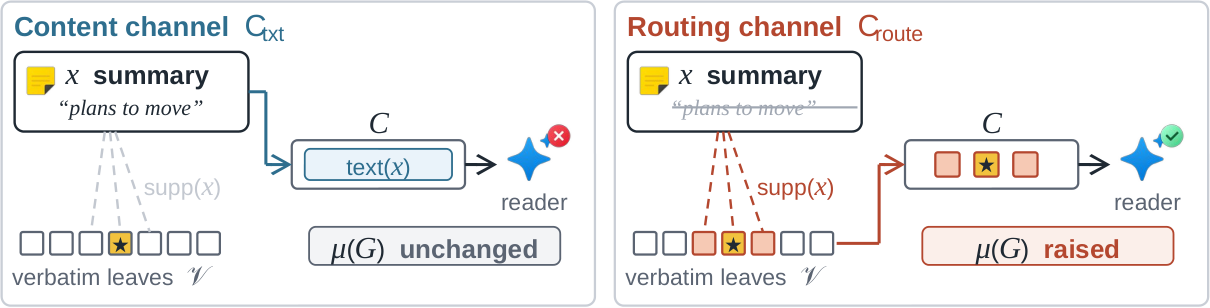
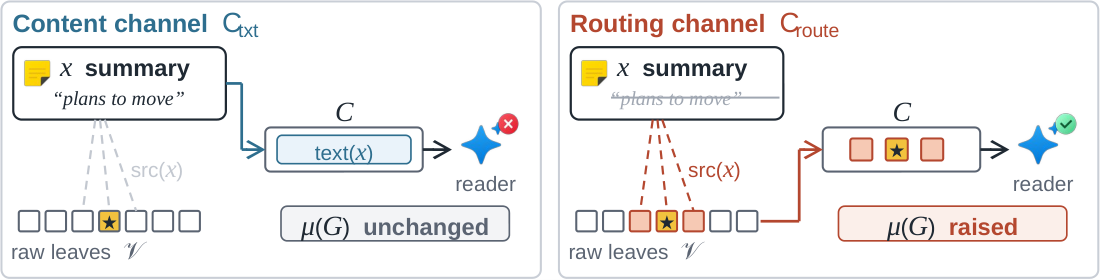
docs-workflow: templates and examples updated to the final Fig 2 (query lane, two query depths, eviction, literature-grounded labels)

diff --git a/skills/docs-workflow/resources/templates/fig2_build.py b/skills/docs-workflow/resources/templates/fig2_build.py
@@ -127,8 +127,8 @@ def chip(x, y, w, h, runs, fill=WHITE, line=INK, lw=0.9, align=PP_ALIGN.CENTER, 
 
 # ------------------------------------------------------------------ code highlighting
 KW = {'class', 'def', 'return', 'if', 'and', 'else'}
-FN = {'admit', 'index', 'score', 'propose', 'route', 'supp', 'len'}
-TY = {'Tier', 'Interface', 'SummaryTier_v3', 'SummaryTier_v4', 'bool', 'Index', 'Proposal', 'Action'}
+FN = {'admit', 'index', 'score', 'propose', 'route', 'src', 'len'}
+TY = {'Layer', 'Interface', 'SummaryLayer_g0', 'SummaryLayer_child', 'bool', 'Index', 'Proposal', 'Action'}
 CT = {'Stop', 'Narrow', 'Descend'}
 def code_runs(line, size=FC):
     runs = []; body, cm = (line.split('#', 1) + [None])[:2] if '#' in line else (line, None)
@@ -177,15 +177,15 @@ def elabel(x, y, w, txt, col, align=PP_ALIGN.CENTER): return text(x, y, w, 0.45,
 # ------------------------------------------------------------------ Self-modify geometry first (it sets the height)
 ex, ew = 11.2, 8.45
 yt0 = P0 + 0.8                                          # tier.py top
-TIER = ['Action = Stop | Narrow | Descend', 'class Tier(Interface):', '    # in-layer',
-        '    def admit(p) -> bool', '    def index(items) -> Index', '    def score(q, focus) -> [(x, c)]',
-        '    # cross-layer', '    def propose(items, seg) -> [Proposal]', '    def route(q, x, c) -> Action',
-        '    # contract: V append-only; supp exact;', '    #   within budget B; deterministic']
+TIER = ['Action = Stop | Narrow | Descend', 'class Layer(Interface):', '    # in-layer',
+        '    def admit(p) -> bool', '    def index(items) -> Index', '    def score(q, scope) -> [(x, c)]',
+        '    # cross-layer', '    def propose(items, chunk) -> [Proposal]', '    def route(q, x, c) -> Action',
+        '    # invariants: V append-only; src exact;', '    #   within budget B; deterministic']
 ht = 0.5 + len(TIER) * LH + 0.14
 ysel = yt0 + ht + 0.25 + 0.33                           # diagnosis -> rewriter row
-DIFF = [(' ', 'class SummaryTier_child(SummaryTier_seed):'), (' ', '    def route(q, x, c):'),
+DIFF = [(' ', 'class SummaryLayer_child(SummaryLayer_g0):'), (' ', '    def route(q, x, c):'),
         ('-', '        return Stop if c > .3 else Descend'), ('+', '        if c > .55: return Stop'),
-        ('+', '        if c > .3 and len(supp(x)) <= 8:'), ('+', '            return Narrow'), ('+', '        return Descend')]
+        ('+', '        if c > .3 and len(src(x)) <= 8:'), ('+', '            return Narrow'), ('+', '        return Descend')]
 ydf = ysel + 0.33 + 0.55
 hd = 0.5 + len(DIFF) * LH + 0.14
 PB = ydf + hd + 0.15                                    # row-2 panel bottoms
@@ -196,8 +196,10 @@ prs.slide_height = Emu(int(H * CM))
 yd = P0 + 8.35                                          # accept / reject row, also the new child g'
 
 # ------------------------------------------------------------------ labels (one place, so a terminology change is one edit)
-LBL = dict(verbatim='Verbatim', kv='kv-assoc', adapter='adapter', nlport='NL port', latport='Latent port',
-           compose='compose', latent='latent layers')
+LBL = dict(verbatim='Raw', kv='KV memory', adapter='adapter', nlport='Text injection', latport='Latent injection',
+           compose='assemble', latent='latent memory', ledger='rejection log', contract='validity check', diagnosis='diagnosis',
+           rewriter='meta agent', archive='Archive', selfmod='Self-modify', evaluate='Evaluate', run='run MemArena',
+           paired='paired test', judge='Judge', reader='Reader', agent='Task Agent', loop='Darwin G\u00f6del Loop')
 # ------------------------------------------------------------------ the zoom band (behind everything)
 BAND = C('F2EFFA')
 poly([(XC0, B1), (XC1, B1), (XC1, F0), (XA0, F0)], BAND)
@@ -220,7 +222,7 @@ for ic, nm, y in BARS:
     icon(ic, LX0 + 0.12, y + 0.12, 0.5); text(LX0 + 0.7, y, 1.9, BH, R(nm, FS, True))
 icon('lock', LX0 + 0.72 + width_cm([R(LBL['verbatim'], FS, True)]) + 0.06, yv + 0.2, 0.34)      # the append-only floor
 IX = 16.2
-for x in (IX + 0.3, IX + 0.75): rect(x, cy['Skill'] - 0.18, 0.36, 0.36, C('FAEAD5'), C('C08A2E'), 0.9, 0.2)
+for x in (IX - 0.15, IX + 0.3): rect(x, cy['Skill'] - 0.18, 0.36, 0.36, C('FAEAD5'), C('C08A2E'), 0.9, 0.2)
 gn = [(IX + 0.12, cy['Graph'] - 0.13), (IX + 0.62, cy['Graph'] + 0.15), (IX + 1.1, cy['Graph'] - 0.13)]
 for i, j in [(0, 1), (1, 2), (0, 2)]: seg(*gn[i], *gn[j], C('4A7CB5'), 1.0)
 for x, y in gn: oval(x, y, 0.12, C('D6E6F5'), C('4A7CB5'), 1.0)
@@ -229,11 +231,12 @@ for k, x in enumerate([IX, IX + 0.43, IX + 0.86]):
 leaves = [IX + 0.24 * k for k in range(5)]
 for k, x in enumerate(leaves): rect(x, cy[LBL['verbatim']] - 0.105, 0.21, 0.21, HILITE if k < 3 else WHITE, HILINE if k < 3 else GREY, 0.8, 0.1)
 for k in range(3): seg(IX + 0.07 + 0.1 * k, ys + BH, leaves[k] + 0.105, cy[LBL['verbatim']] - 0.105, GREY, 0.9, MSO_LINE_DASH_STYLE.DASH)
-text(13.4, ys + BH + 0.05, 2.55, 0.45, [R('supp', FS), R('(', FS), M('x'), S('⋆', 9), R(')', FS)], PP_ALIGN.RIGHT)
+text(13.4, ys + BH + 0.05, 2.55, 0.45, [R('src', FS), R('(', FS), M('x'), S('⋆', 9), R(')', FS)], PP_ALIGN.RIGHT)
 PX, DX = LX1 - 0.35, LX1 - 0.12                     # promote / demote in the gaps, labelled once
 for (_, _, ya), (_, _, yb) in zip(BARS[:-1], BARS[1:]):
-    seg(PX, yb, PX, ya + BH, PROM, ALW, head=True); seg(DX, ya + BH, DX, yb, DEM, ALW, head=True)
-text(LX0, 2.7, PX - LX0 - 0.1, 0.5, [R('promote', FS, True, PROM), R(' / ', FS, False, GREY), R('demote', FS, True, DEM)], PP_ALIGN.RIGHT)
+    seg(PX + 0.1, yb, PX + 0.1, ya + BH, PROM, ALW, head=True)
+text(LX0, 2.7, PX + 0.1 - LX0 - 0.1, 0.5, R('promote', FS, True, PROM), PP_ALIGN.RIGHT)
+rect(IX + 0.75, cy['Skill'] - 0.18, 0.36, 0.36, WHITE, DEM, 1.0, 0.2, MSO_LINE_DASH_STYLE.DASH)     # an evicted item
 # two queries, two depths: q1 stops at graph, q2 narrows on the summary hit and stops at the floor
 Q1X, Q2X, QS = 17.9, 18.65, 0.38
 seg(10.95, yq, Q2X, yq, K_CT, ALW)                                        # the lane inside MemDGM
@@ -247,36 +250,37 @@ ky = 6.62; kx = LX0
 seg(kx + 0.12, ky + 0.02, kx + 0.12, ky + 0.34, K_CT, 1.0, head=True); text(kx + 0.26, ky, 1.5, 0.38, R('Descend', FC, True, K_CT, False, MONO))
 icon('focus_set', kx + 1.75, ky + 0.02, 0.32); text(kx + 2.1, ky, 1.4, 0.38, R('Narrow', FC, True, K_CT, False, MONO))
 icon('stop', kx + 3.45, ky + 0.02, 0.32); text(kx + 3.8, ky, 1.1, 0.38, R('Stop', FC, True, K_CT, False, MONO))
+rect(kx + 4.85, ky + 0.05, 0.28, 0.28, WHITE, DEM, 1.0, 0.2, MSO_LINE_DASH_STYLE.DASH); text(kx + 5.18, ky, 1.5, 0.38, R('evicted', FS, True, DEM))
 # the two ports: latent layers (kv-assoc, adapter) and compose (the text context through its two channels)
-rect(10.95, 1.87, 1.85, 1.05, WHITE, LAT, 1.0, 0.12)
+rect(10.95, 1.87, 2.0, 1.05, WHITE, LAT, 1.0, 0.12)
 for k, nm in enumerate([LBL['kv'], LBL['adapter']]):
-    y = 1.93 + k * 0.48; rect(11.03, y, 1.69, 0.42, C('F1EEF8'), LAT, 0.75, 0.2)
-    text(11.03, y, 1.69, 0.42, R(nm, 9.5, True, LAT), PP_ALIGN.CENTER)
-seg(11.87, yq, 11.87, 1.87, K_CT, ALW, head=True)                             # q also reaches the latent layers
-rect(10.95, 3.2, 1.85, 3.25, WHITE, NLB, 1.0, 0.08)
+    y = 1.93 + k * 0.48; rect(11.03, y, 1.84, 0.42, C('F1EEF8'), LAT, 0.75, 0.2)
+    text(11.03, y, 1.84, 0.42, R(nm, 9, True, LAT), PP_ALIGN.CENTER)
+seg(11.95, yq, 11.95, 1.87, K_CT, ALW, head=True)                             # q also reaches the latent layers
+rect(10.95, 3.2, 2.0, 3.25, WHITE, NLB, 1.0, 0.08)
 def chan(y, subtxt):
-    rect(11.1, y - 0.26, 1.55, 0.52, C('EAF3FA'), NLB, 0.75, 0.18)
+    rect(11.1, y - 0.26, 1.7, 0.52, C('EAF3FA'), NLB, 0.75, 0.18)
     text(11.28, y - 0.26, 0.36, 0.52, R('C', 12, False, NLB, False, SANS), pad=0.0); text(11.6, y - 0.14, 1.0, 0.45, R(subtxt, 9, False, NLB), pad=0.0)
 chan(cy['Graph'], 'txt'); chan(cy[LBL['verbatim']], 'route')
-icon('nl_interface', 11.66, yC - 0.62, 0.36); text(10.95, yC - 0.22, 1.85, 0.45, R(LBL['compose'], FS, True, NLB), PP_ALIGN.CENTER)
-seg(LX0, cy['Graph'], 12.65, cy['Graph'], NLB, ALW, head=True)
-seg(LX0, cy[LBL['verbatim']], 12.65, cy[LBL['verbatim']], NLB, ALW, head=True)
+icon('nl_interface', 11.77, yC - 0.62, 0.36); text(10.95, yC - 0.22, 2.0, 0.45, R(LBL['compose'], FS, True, NLB), PP_ALIGN.CENTER)
+seg(LX0, cy['Graph'], 12.8, cy['Graph'], NLB, ALW, head=True)
+seg(LX0, cy[LBL['verbatim']], 12.8, cy[LBL['verbatim']], NLB, ALW, head=True)
 
 # ------------------------------------------------------------------ MemArena
 panel(XA0, Y1, XA1 - XA0, B1 - Y1, P_ARENA, 'benchmark_arena', 'MemArena')
 ichip(0.8, yq - 0.32, 4.1, 0.64, 'query', [R('Query ', FS, True), M('q')])
-ichip(0.8, yA - 0.3, 3.85, 0.6, 'judge', R('Judge', FS, True))
+ichip(0.8, yA - 0.3, 3.85, 0.6, 'judge', R(LBL['judge'], FS, True))
 for k, (ic, nm) in enumerate([('accuracy', 'Accuracy'), ('tokens', 'Tokens'), ('latency', 'Latency')]):
     ichip(0.8, 2.85 + k * 0.66, 3.85, 0.56, ic, R(nm, FS, True), C('F7FAFD'), GREY, 0.75, 0.4)
 for k, (b, x, w) in enumerate([('LoCoMo', 0.8, 1.6), ('LongMemEval', 2.48, 2.42), ('InMind', 0.8, 1.6), ('PersonaMem', 2.48, 2.42)]):
     chip(x, 5.0 + (k // 2) * 0.62, w, 0.52, R(b, 9.5), WHITE, GREY, 0.75)
 
 # ------------------------------------------------------------------ Task Agent
-panel(XB0, Y1, XB1 - XB0, B1 - Y1, P_AGENT, 'task_agent', 'Task Agent')
+panel(XB0, Y1, XB1 - XB0, B1 - Y1, P_AGENT, 'task_agent', LBL['agent'])
 chip(7.55, yq - 0.24, 0.9, 0.48, [M('q')], C('EDF1F6'), GREY, 0.75)            # the agent issues the read
 seg(4.9, yq, 7.55, yq, K_CT, ALW, head=True); seg(8.45, yq, 10.95, yq, K_CT, ALW, head=True)
 text(5.1, yq - 0.5, 0.6, 0.45, M('q', 12, K_CT), PP_ALIGN.CENTER); text(10.1, yq - 0.5, 0.7, 0.45, M('q', 12, K_CT), PP_ALIGN.CENTER)
-rect(6.2, 1.85, 1.7, 2.15, WHITE, INK, LW, 0.08); text(6.2, 1.88, 1.7, 0.42, R('Reader', FS, True), PP_ALIGN.CENTER)
+rect(6.2, 1.85, 1.7, 2.15, WHITE, INK, LW, 0.08); text(6.2, 1.88, 1.7, 0.42, R(LBL['reader'], FS, True), PP_ALIGN.CENTER)
 bars = [2.35 + k * 0.53 for k in range(3)]
 for y in bars:
     rect(6.35, y, 1.4, 0.38, C('F1EEF8'), C('9A8BB8'), 0.75, 0.2); text(6.35, y, 1.4, 0.38, R('attn', 9.5, False, LAT), PP_ALIGN.CENTER)
@@ -291,7 +295,7 @@ rect(6.3, yC - 0.27, 0.5, 0.54, C('5B6472'), C('5B6472'), 0.75, 0.12); text(6.3,
 for k in range(5): rect(7.0 + k * 0.5, yC - 0.14, 0.28, 0.28, HILITE, HILINE, 0.8, 0.12)
 seg(7.05, yC - 0.38, 7.05, 4.0, INK, ALW, head=True)
 ichip2(6.0, 5.72, 3.9, 0.76, 'nl_interface', R(LBL['nlport'], FS, True, NLB), R('text → prompt', FS), WHITE, NLB, 0.9, 0.4)
-ichip2(6.0, 6.54, 3.9, 0.76, 'latent_purple', R(LBL['latport'], FS, True, LAT), R('KV → attention', FS), WHITE, LAT, 0.9, 0.4)
+ichip2(6.0, 6.54, 3.9, 0.76, 'latent_purple', R(LBL['latport'], FS, True, LAT), R('KV/LoRA → model', FS), WHITE, LAT, 0.9, 0.4)
 # answer and the two ports back into the agent
 seg(6.2, yA, 4.65, yA, INK, ALW, head=True); text(5.15, yA - 0.5, 0.6, 0.45, M('a'), PP_ALIGN.CENTER)
 seg(10.95, yC, 9.7, yC, NLB, ALW, head=True); text(10.1, yC - 0.52, 0.7, 0.45, M('C', 12, NLB), PP_ALIGN.CENTER)
@@ -299,20 +303,19 @@ seg(10.95, yKV, 9.7, yKV, LAT, ALW, head=True); text(10.0, yKV - 0.52, 0.9, 0.45
 
 # ================================================================== the Darwin Godel frame: Evaluate | Archive | Self-modify
 rect(XA0, F0, XC1 - XA0, FB - F0, BAND, C('8C7BB8'), 1.0, 0.02)
-icon('evolution', XA0 + 0.2, F0 + 0.1, 0.5); text(XA0 + 0.8, F0 + 0.08, 6.0, 0.55, [R('Darwin Gödel Loop', FT, True, C('5B4A8A'))])
+icon('evolution', XA0 + 0.2, F0 + 0.1, 0.5); text(XA0 + 0.8, F0 + 0.08, 6.0, 0.55, [R(LBL['loop'], FT, True, C('5B4A8A'))])
 EA0, EA1 = 0.75, XA1                                    # panels inset in the frame
 # ------------------------------------------------------------------ Evaluate
-panel(EA0, P0, EA1 - EA0, PB - P0, P_EVAL, 'evaluate', 'Evaluate')
+panel(EA0, P0, EA1 - EA0, PB - P0, P_EVAL, 'evaluate', LBL['evaluate'])
 yrun = P0 + 1.2; ex0, ex1 = 1.05, 4.9
-ichip(ex0, yrun - 0.33, ex1 - ex0, 0.66, 'run', R('run task loop', FS, True))
-icon('benchmark_arena', ex1 - 0.72, yrun - 0.15, 0.3); icon('task_agent', ex1 - 0.38, yrun - 0.15, 0.3)
+ichip(ex0, yrun - 0.33, ex1 - ex0, 0.66, 'run', R(LBL['run'], FS, True))
 ysc = P0 + 2.25; RH = 0.86
 rect(ex0, ysc, ex1 - ex0, 3 * RH + 0.16, WHITE, GREY, 0.8, 0.06)
 for k, (ic, nm, val) in enumerate([('accuracy', 'Accuracy', '.577 → .599'), ('tokens', 'Tokens', '4766 → 4683'), ('latency', 'Latency', '7.6 → 4.3 s')]):
     y = ysc + 0.08 + k * RH; icon(ic, ex0 + 0.15, y + 0.2, 0.44)
     text(ex0 + 0.72, y + 0.03, 2.9, 0.42, R(nm, FS, True)); text(ex0 + 0.72, y + 0.43, 2.9, 0.4, R(val, FC, False, INK, False, MONO))
 ypt = ysc + 3 * RH + 0.16 + 0.55
-ichip2(ex0, ypt, ex1 - ex0, 0.86, 'paired_test', R('paired test', FS, True), R('p = .043', FC, False, INK, False, MONO))
+ichip2(ex0, ypt, ex1 - ex0, 0.86, 'paired_test', R(LBL['paired'], FS, True), R('p = .043', FC, False, INK, False, MONO))
 xm = (ex0 + ex1) / 2
 seg(xm, yrun + 0.33, xm, ysc, LOOP, ALW, head=True); seg(xm, ysc + 3 * RH + 0.16, xm, ypt, LOOP, ALW, head=True)
 xr, xa, fy = ex0 + 0.9, ex1 - 0.9, ypt + 0.86 + 0.5
@@ -323,8 +326,8 @@ def decide(x, w, ic, word, fill):
 decide(ex0, 1.8, 'reject', 'Reject', C('FDECEA')); decide(ex1 - 1.9, 1.9, 'accept', 'Accept', C('E4F2E6'))
 
 # ------------------------------------------------------------------ Archive
-panel(XB0, P0, XB1 - XB0, PB - P0, P_ARCH, 'archive_tree', 'Archive')
-text(XB0 + 0.85 + width_cm([R('Archive', FT, True)]) + 0.12, P0 + 0.12, 0.6, 0.55, S('\U0001D49C', 15))
+panel(XB0, P0, XB1 - XB0, PB - P0, P_ARCH, 'archive_tree', LBL['archive'])
+text(XB0 + 0.85 + width_cm([R(LBL['archive'], FT, True)]) + 0.12, P0 + 0.12, 0.6, 0.55, S('\U0001D49C', 15))
 r = 0.32; ya0 = P0 + 1.55; bus = P0 + 2.3; yl1, yl2, yl3 = P0 + 3.1, P0 + 4.6, P0 + 6.1
 root = (7.7, ya0); gprime = (9.15, yd)
 seg(root[0], ya0 + r, root[0], bus, INK, LW); seg(6.5, bus, 7.7, bus, INK, LW); seg(7.7, bus, 9.15, bus, LOOP, LW, MSO_LINE_DASH_STYLE.DASH)
@@ -337,17 +340,17 @@ oval(*gprime, r, C('F2C23E')); text(gprime[0] - r, yd - r, 2 * r, 2 * r, M('g′
 elabel(5.95, ya0 - 0.22, 1.35, 'parent', LOOP, PP_ALIGN.RIGHT)
 elabel(7.7, yd - 0.52, 1.1, 'child', LOOP, PP_ALIGN.RIGHT)
 ylog = yd + 0.8
-ichip(6.2, ylog - 0.3, 2.3, 0.6, 'log', [R('ledger ', FS, True), S('\U0001D4A5', 13)], WHITE, GREY, 0.8, 0.38)
+ichip(6.2, ylog - 0.3, 3.45, 0.6, 'log', [R(LBL['ledger'] + ' ', FS, True), S('\U0001D4A5', 13)], WHITE, GREY, 0.8, 0.38)
 
 # ------------------------------------------------------------------ Self-modify
-panel(XC0, P0, XC1 - 0.15 - XC0, PB - P0, P_SELF, 'code_edit', 'Self-modify')
-editor(ex, yt0, ew, ht, 'tier.py', 'fixed')
+panel(XC0, P0, XC1 - 0.15 - XC0, PB - P0, P_SELF, 'code_edit', LBL['selfmod'])
+editor(ex, yt0, ew, ht, 'layer.py', 'fixed')
 for k, l in enumerate(TIER): cline(ex + 0.2, yt0 + 0.52 + k * LH, l)
-ichip(ex, ysel - 0.33, 3.45, 0.66, 'diagnosis', [R('diagnosis ', FS, True), S('\U0001D49F', 13), R('(', FS), M('g'), R(')', FS)])
-ichip(ex + 4.15, ysel - 0.33, 2.75, 0.66, 'rewriter', [R('rewriter ', FS, True), M('ρ')])
+ichip(ex, ysel - 0.33, 3.45, 0.66, 'diagnosis', [R(LBL['diagnosis'] + ' ', FS, True), S('\U0001D49F', 13), R('(', FS), M('g'), R(')', FS)])
+ichip(ex + 4.15, ysel - 0.33, 3.2, 0.66, 'rewriter', [R(LBL['rewriter'] + ' ', FS, True), M('ρ')])
 seg(ex + 3.45, ysel, ex + 4.15, ysel, LOOP, ALW, head=True)
 seg(ex + 5.5, ysel + 0.33, ex + 5.5, ydf, LOOP, ALW, head=True)
-editor(ex, ydf, ew, hd, tabs=[('skill', 'skill', False), ('graph', 'graph', False), ('summary', 'summary', True), ('verbatim', 'verbatim', False)])
+editor(ex, ydf, ew, hd, tabs=[('skill', 'skill', False), ('graph', 'graph', False), ('summary', 'summary', True), ('raw', 'verbatim', False)])
 yy = ydf + 0.52
 for sign, l in DIFF:                                     # bands first, then text
     if sign != ' ': rect(ex + 0.02, yy, ew - 0.04, LH, DF_RED if sign == '-' else DF_GRN, None, 0, 0.0, shape=MSO_SHAPE.RECTANGLE)
@@ -363,10 +366,10 @@ path([(root[0] + r, ya0), (xsel, ya0), (xsel, ysel), (ex, ysel)], col=LOOP, w=AL
 seg(ex1, yd, gprime[0] - r, yd, LOOP, ALW, head=True); elabel(6.0, yd - 0.5, 1.0, 'add', LOOP, PP_ALIGN.LEFT)
 path([(xr, yd + 0.3), (xr, ylog), (6.2, ylog)], col=GREY, w=ALW, dash=MSO_LINE_DASH_STYLE.DASH)
 ylj = ysel + 0.33 + 0.27                                 # ledger -> rewriter, under the diagnosis row
-path([(8.5, ylog), (10.45, ylog), (10.45, ylj), (ex + 4.55, ylj), (ex + 4.55, ysel + 0.33)], col=GREY, w=ALW, dash=MSO_LINE_DASH_STYLE.DASH)
-xc0, xc1 = 6.3, 8.65                                     # contract gate on the lane
+path([(9.65, ylog), (10.45, ylog), (10.45, ylj), (ex + 4.55, ylj), (ex + 4.55, ysel + 0.33)], col=GREY, w=ALW, dash=MSO_LINE_DASH_STYLE.DASH)
+xc0, xc1 = 6.3, 9.65                                     # contract gate on the lane
 path([(ex + 4.2, ydf + hd), (ex + 4.2, lane), (xc1, lane)], col=LOOP, w=ALW)
-ichip(xc0, lane - 0.31, xc1 - xc0, 0.62, 'contract', R('contract', FS, True), WHITE, LOOP, 1.0, 0.4)
+ichip(xc0, lane - 0.31, xc1 - xc0, 0.62, 'contract', R(LBL['contract'], FS, True), WHITE, LOOP, 1.0, 0.4)
 path([(xc0, lane), (0.3, lane), (0.3, yrun), (ex0, yrun)], col=LOOP, w=ALW)
 icon('python_code', 11.3, lane + 0.1, 0.4); text(11.75, lane + 0.05, 2.2, 0.5, [R('child ', FS, True, LOOP), M('g′', 12, LOOP)])
 

diff --git a/skills/docs-workflow/resources/templates/fig_genome.py b/skills/docs-workflow/resources/templates/fig_genome.py
@@ -9,7 +9,7 @@ prs.slide_width = Emu(int(W2 * CM)); prs.slide_height = Emu(int(H2 * CM))
 F = 7.5
 LAM0, LAMW = 1.55, 0.44
 VX = [2.05, 3.06, 4.07, 5.25, 6.3]; VW = 1.02
-ROWS = [('skill', 'Skill'), ('graph', 'Graph'), ('summary', 'Summary'), ('verbatim', 'Verbatim')]
+ROWS = [('skill', 'Skill'), ('graph', 'Graph'), ('summary', 'Summary'), ('verbatim', 'Raw')]
 RY = [0.86, 1.34, 1.82, 2.30]; RH = 0.42
 # headers
 rect(LAM0, 0.06, LAMW, 0.34, C('EEF0F3'), None, 0, 0.2); text(LAM0, 0.06, LAMW, 0.34, M('λ', 9), PP_ALIGN.CENTER)
@@ -24,7 +24,7 @@ for (ic, nm), y in zip(ROWS, RY):
     icon(ic, 0.02, y + 0.06, 0.3); text(0.34, y, 1.1, RH, R(nm, 7.2, True), pad=0.0)
     for x in VX: rect(x, y + 0.03, VW, RH - 0.06, C('F6F4FB'), C('C9C2DE'), 0.6, 0.18)
     # membership bit: a switch, or a lock on the floor
-    if nm == 'Verbatim':
+    if nm == 'Raw':
         icon('lock', LAM0 + 0.08, y + 0.06, 0.28)
     else:
         on = nm != 'Skill'
@@ -40,6 +40,6 @@ rect(0.1, ky + 0.06, 0.3, 0.22, HILITE, HILINE, 1.0, 0.18, MSO_LINE_DASH_STYLE.D
 text(0.45, ky, 3.2, 0.34, R('child 1: override one verb', F))
 rect(3.85, ky + 0.06, 0.3, 0.22, WHITE, HILINE, 1.0, 0.18, MSO_LINE_DASH_STYLE.DASH)
 text(4.2, ky, 3.1, 0.34, R('child 2: flip one bit', F))
-icon('lock', 0.12, ky + 0.42, 0.26); text(0.45, ky + 0.4, 3.0, 0.34, R('floor bit locked', F))
+icon('lock', 0.12, ky + 0.42, 0.26); text(0.45, ky + 0.4, 3.0, 0.34, R('raw bit locked', F))
 for o in sorted(OVER, reverse=True): print('OVERFLOW %.2f cm  %-40s at (%s, %s)' % o)
 os.makedirs('out', exist_ok=True); prs.save('out/fig_genome.pptx'); print('written')

diff --git a/skills/docs-workflow/resources/templates/fig_channels.py b/skills/docs-workflow/resources/templates/fig_channels.py
@@ -26,10 +26,10 @@ def panel2(x0, title, sym, col, route):
         fill = GOLD if k == 3 else (HILITE if (route and insupp) else WHITE)
         rect(x, ly, 0.26, 0.26, fill, (HILINE if (route and insupp) else GREY), 0.75, 0.1)
     text(lx[3] - 0.05, ly - 0.02, 0.36, 0.3, R('★', 7, False, INK, False, FREE), PP_ALIGN.CENTER, pad=0)
-    text(x0 + 0.1, ly + 0.28, 2.6, 0.4, [R('verbatim leaves  ', 7.5, False, GREY), S('\U0001D4B1', 9, GREY)])
+    text(x0 + 0.1, ly + 0.28, 2.6, 0.4, [R('raw leaves  ', 7.5, False, GREY), S('\U0001D4B1', 9, GREY)])
     fan = C('B4472F') if route else C('C3C8D0')
     for k in (2, 3, 4): seg(x0 + 1.25 + 0.06 * (k - 3), 1.52, lx[k] + 0.13, ly, fan, 0.8, MSO_LINE_DASH_STYLE.DASH)
-    text(x0 + 1.62, 1.92, 1.3, 0.4, [R('supp', 7.5, False, fan), R('(', 7.5, False, fan), M('x', 9, fan), R(')', 7.5, False, fan)])
+    text(x0 + 1.62, 1.92, 1.3, 0.4, [R('src', 7.5, False, fan), R('(', 7.5, False, fan), M('x', 9, fan), R(')', 7.5, False, fan)])
     # context C and the reader
     cx, cy, cw, ch = x0 + 3.35, 1.62, 2.0, 0.56
     text(cx, cy - 0.42, cw, 0.4, M('C', 10), PP_ALIGN.CENTER)
